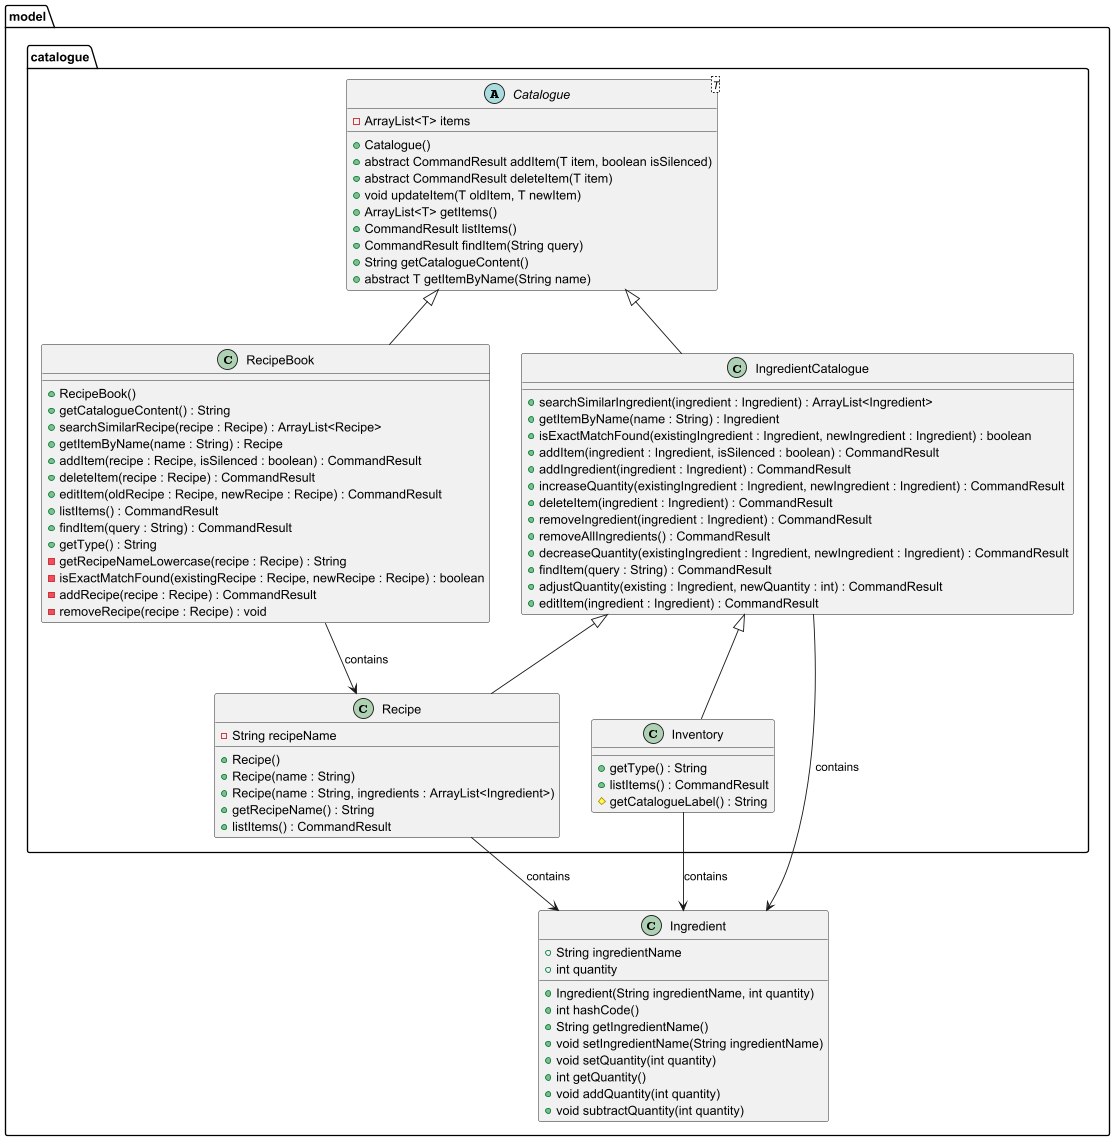
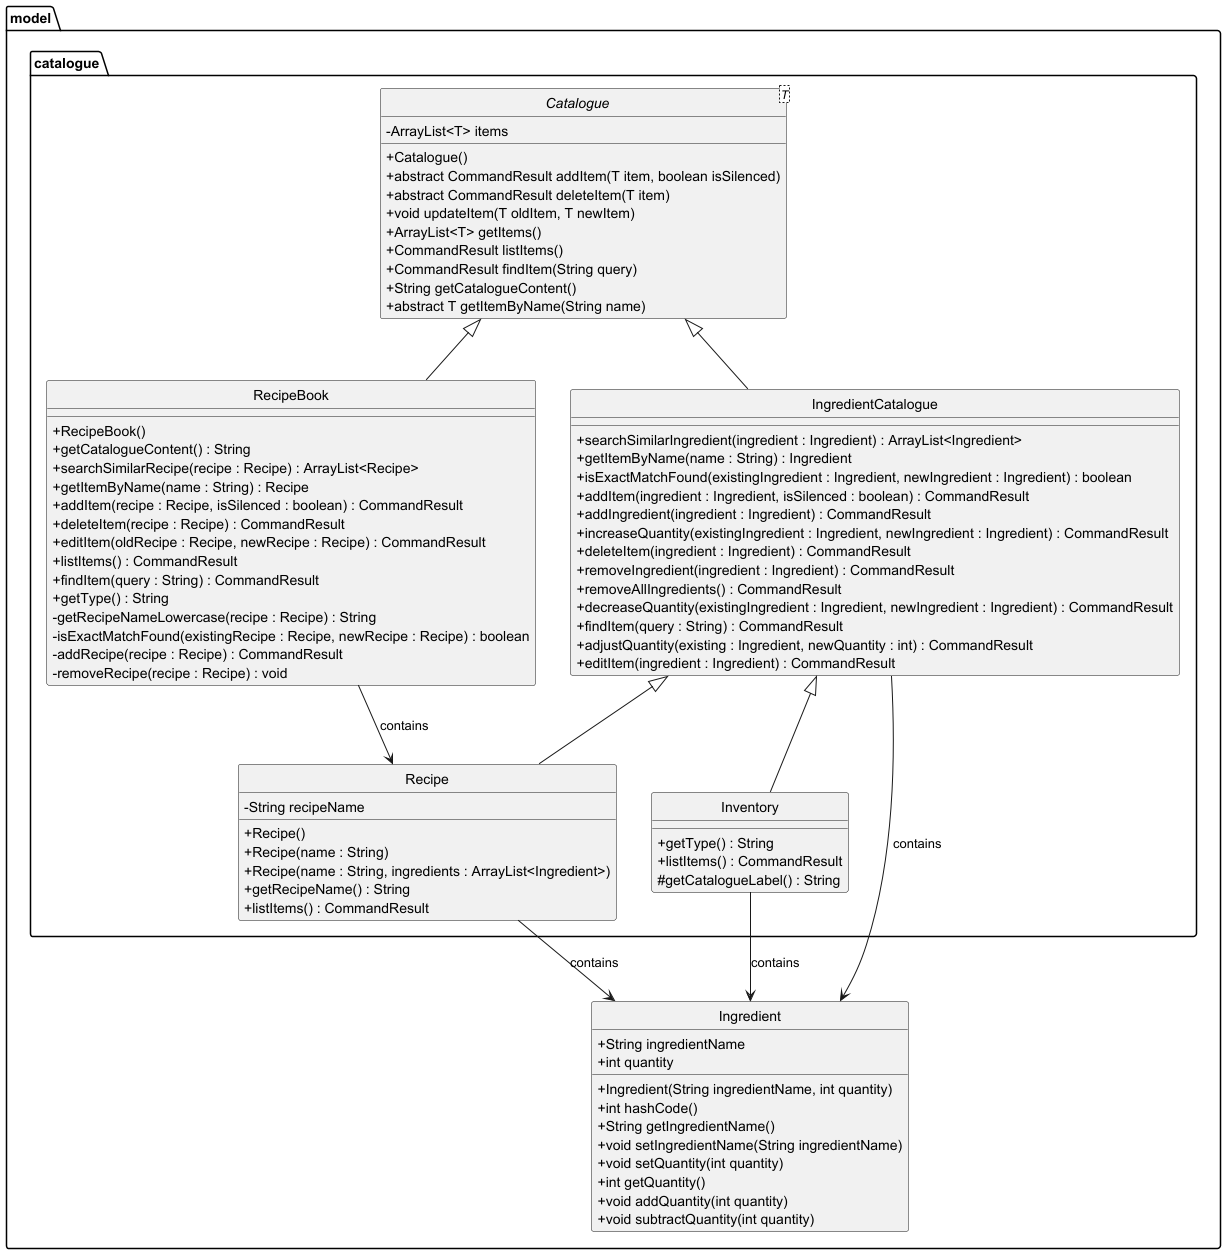
Fix UML diagrams

diff --git a/docs/DeveloperGuide.md b/docs/DeveloperGuide.md
@@ -1,5 +1,22 @@
 # Developer Guide
 
+## Table of Contents
+
+- [Acknowledgements](#acknowledgements)
+- [Design & implementation](#design--implementation)
+    - [Architecture](#architecture)
+    - [UI Component](#ui-component)
+    - [Commands Component](#commands-component)
+    - [Model Component](#model-component)
+    - [Storage Component](#storage-component)
+- [Product scope](#product-scope)
+    - [Target user profile](#target-user-profile)
+    - [Value proposition](#value-proposition)
+- [User Stories](#user-stories)
+- [Non-Functional Requirements](#non-functional-requirements)
+- [Glossary](#glossary)
+- [Instructions for manual testing](#instructions-for-manual-testing)
+    - [Tips for testers](#tips-for-testers)
 ## Acknowledgements
 
 KitchenCTRL uses the following tools for development:
@@ -21,13 +38,12 @@ The design and implementation of KitchenCTRL has been broken down into various s
 ### Architecture
 A high-level overview of the system is shown in the Architecture Diagram below.
 
-This architecture consists of:
+The complete architecture consists of:
 1. `Ui`, `Main`, `Parser`, `InputParser` and `Command` classes: 
     These classes manage user interaction, parsing input commands, and executing actions.
 2. `Ingredient`, `Inventory`, `Recipe` and `RecipeBook` classes: 
     Model objects and collections used to manage the application data.
-3. `Storage` class: Stores data between sessions.
-4. `Exceptions`: Handle error cases 
+3. `CatalogueContentManager` class: Stores data between sessions.
 
 ### UI Component
 ![UI UML diagram](diagrams/ui.png)
@@ -86,12 +102,11 @@ It integrates closely with other components such as:
 
 It allows the user to interact with the system in an intuitive way, providing clear instructions and feedback at every step.
 
-
-
 ### Commands Component
 ![Logic UML diagram](diagrams/logic.png)
 
-The commands package is responsible for encapsulating user actions and system operations as individual command classes. Each command represents a specific operation that the application can perform, such as modifying data, navigating between screens, or executing specific tasks.
+The commands package is responsible for encapsulating user actions and system operations as individual command classes. 
+Each command represents a specific operation that the application can perform, such as modifying data, navigating between screens, or executing specific tasks.
 
 All commands in this package inherit from a common parent class, typically named Command. This design ensures consistency and reusability across the application by enforcing a standard structure for all commands.
 
@@ -128,17 +143,76 @@ It does not depend on any of the other three components (Logic, UI, or Storage),
 
 > ℹ **Note:** Recipes and inventory entries are internally handled using dynamic lists within `Catalogue<T>`, avoiding tight coupling and enabling code reuse across domain types.
 
+#### **Inventory Class**
 
-#### RecipeBook Design
-The `RecipeBook` class inherits from `Catalogue<Recipe>` and manages a list of `Recipe` objects. It provides CRUD functionality and uses `CommandResult` to return operation outcomes.
+The `Inventory` class is a subclass of the generic `Catalogue<Ingredient>` class. It is used to store all ingredients currently available to the user.
 
+The following are its attributes:
+- `items`  
+  **type:** `ArrayList<Ingredient>`  
+  Stores all ingredients the user currently has.
+
+- `catalogueName`  
+  **type:** `String`  
+  A fixed label used for saving and displaying (e.g., "Inventory").
+
+Key methods implemented in this class include:
+- `addItem(Ingredient ingredient)` – Adds an ingredient to the inventory or updates quantity if it already exists.
+- `deleteItem(String name, int quantity)` – Removes a quantity of an ingredient.
+- `editItem(String name, int newQuantity)` – Updates the amount of a specific ingredient.
+- `getItemByName(String name)` – Retrieves an ingredient by name.
+- `findItem(String keyword)` – Returns a list of ingredients that match a keyword.
+- `contains(String name)` – Returns true if the inventory contains the given ingredient.
+---
+#### **Recipe Class**
+
+The `Recipe` class is used to represent a single recipe. It contains the name of the recipe and its required ingredients (with their quantities). It inherits from `Catalogue<Ingredient>`.
+
+The following are its attributes:
+
+- `recipeName`  
+  **type:** `String`  
+  Stores the name of the recipe.
+
+- `items`  
+  **type:** `ArrayList<Ingredient>`  
+  Represents the list of ingredients needed for the recipe.
+
+Key methods implemented in this class include:
+- `getRecipeName()` – Returns the name of the recipe.
+- `addItem(Ingredient ingredient)` – Adds an ingredient to the recipe.
+- `deleteItem(String name, int quantity)` – Removes a specified quantity of an ingredient from the recipe.
+- `editItem(String name, int newQuantity)` – Updates the quantity of an ingredient.
+- `getItemByName(String name)` – Searches for an ingredient by name.
+- `findItem(String keyword)` – Returns all ingredients that match a search keyword.
+
+---
+#### **RecipeBook Class**
+
+The `RecipeBook` class is a subclass of the generic `Catalogue<Recipe>` class. It is used to store all user-created recipes and supports functionality for adding, deleting, editing, and searching through recipes.
 ![RecipeBook Class Diagram](diagrams/recipebook.png)
+
+The following are its key attributes:
+- `items`  
+  **type:** `ArrayList<Recipe>`  
+  Stores all `Recipe` objects created by the user.
+
+- `catalogueName`  
+  **type:** `String`  
+  A fixed label used for saving and displaying the catalogue (e.g., "RecipeBook").
+
+Key methods implemented in this class include:
+- `addItem(Recipe recipe)` – Adds a new recipe to the list.
+- `deleteItem(String name)` – Deletes a recipe based on name.
+- `getItemByName(String name)` – Retrieves a recipe by name (case-insensitive).
+- `editItem(String name, Recipe updatedRecipe)` – Replaces an existing recipe with a modified one.
+- `findItem(String keyword)` – Returns a filtered list of recipes whose names contain the given keyword.
 
 ---
 
 ### Storage Component
 
-#### CatalogueContentManager Design
+#### CatalogueContentManager CLass
 
 ##### Purpose
 
@@ -192,7 +266,24 @@ Each item in the inventory is represented as `name (quantity)`
 
 Each recipe ends with a **blank line**.
 
+### Program Run Sequence
 
+#### Command handling
+![AddCommand diagram](diagrams/sequencediagram(Add).png)
+User input is first captured by the `Ui.getUserCommand()` method, which is called from the `KitchenCTRL` class (not shown in the sequence diagram). The input string is then passed to the `Parser#parseCommand()` method to identify the command type and generate the appropriate `Command` object.
+Once a `Command` object is created, the system invokes the `execute()` method of that command. The result of the execution is encapsulated in a `CommandResult` object, which the UI uses to print the appropriate response back to the user.
+As shown in the sequence diagram, this process is demonstrated through three main scenarios:
+
+- Navigating to the inventory screen:
+The user types "inventory", which is parsed into a GoToCommand. It is executed by the system, and the UI displays "now in Inventory" to confirm the screen transition.
+
+- Adding an ingredient:
+The user enters "add egg 1", which the parser interprets as an AddCommand. During execution, the Command object interacts with the Model (in this case, Inventory) to add the ingredient "egg" with quantity 1. Once successful, a confirmation message "egg added" is returned and printed to the user.
+
+- Exiting the program:
+When the user types "bye", the parser generates a ByeCommand. This command calls CatalogueContentManager#saveAllCatalogues() internally, which saves the Inventory and RecipeBook to files using saveToFile(). After successful persistence, a "Goodbye" message is returned and shown to the user.
+Each command follows a similar structure of being parsed → executed → result returned → response displayed, which is consistent with the general command handling architecture in KitchenCTRL.
+This sequence diagram serves as a reference for typical command flow and will help illustrate command handling in the Architecture and Logic sections of the Developer Guide.
 
 ##### Integration
 

diff --git a/docs/team/chuanhuiw.md b/docs/team/chuanhuiw.md
@@ -21,17 +21,26 @@ Given below are my contributions to the project:
     * *Justification*: Prevents system crashes from malformed user input, improving overall application stability.
     * *Highlights*: Refactored `getRecipeNameLowercase()` to validate name integrity before comparison.
 
+* **Refactoring of `Parser`**:
+    * *What it does*: Refactored the `Parser` class to strictly enforce command syntax, ensuring that commands which are designed to be used without arguments (such as `list`, `back`, `help`, `bye`) now throw an error if extra input is provided.
+    * *Justification*: Prevents user confusion and potential bugs caused by invalid command formats like `list extra`, which previously would be accepted silently. Enforcing strict validation improves command clarity and predictability.
+    * *Highlights*:
+        - Switched from keyword-based parsing (`command`, `args`) to full command-line validation (`commandLine`) in the `parseWelcomeCommand` method.
+        - Applied the same validation logic to screen-specific methods such as `parseInventoryCommand`, `parseRecipeBookCommand`, and `parseRecipeCommand`.
+        - Used structured switch-cases and `yield` expressions to enforce correct usage with clear, actionable error messages for commands misused with extra input.
+        - Removed unused parsing methods like `prepareUpdate`, replacing them with context-aware `prepareEdit` that handles `edit` functionality with proper argument checking.
+
 * **Code Contributed**: [RepoSense link](https://nus-cs2113-ay2425s2.github.io/tp-dashboard/?search=[YourGitHubName]&sort=groupTitle&sortWithin=title&timeframe=commit&mergegroup=&groupSelect=groupByRepos&breakdown=true&checkedFileTypes=docs~functional-code~test-code~other&since=2025-02-21)
 
 * **Documentation**:
     * User Guide:
         * Added usage instructions for the `find` command in the Inventory, RecipeBook, and Recipe screens.
     * Developer Guide:
-        * Documented the design, implementation, and PlantUML object diagram for `RecipeBook`.
+        * Documented the design, implementation, Architecture diagram, and PlantUML object diagram for `RecipeBook`.
         * Documented new methods including `findItem`.
 
 * **Testing**:
-    * Added unit tests for `findItem()` in:
+    * Added unit tests in:
         - `RecipeBookTest`
         - `RecipeTest`
         - `InventoryTest`
@@ -39,7 +48,8 @@ Given below are my contributions to the project:
 
 * **Community**:
     * PRs reviewed (with suggestions and feedback):
-        * [\#50](https://github.com/AY2425S2-CS2113-T13-1/tp/pull/50), [\#35](https://github.com/AY2425S2-CS2113-T13-1/tp/pull/35)
+        * [\#50](https://github.com/AY2425S2-CS2113-T13-1/tp/pull/50)
+        * [\#35](https://github.com/AY2425S2-CS2113-T13-1/tp/pull/35)
         * [\#93](https://github.com/AY2425S2-CS2113-T13-1/tp/pull/93)
 
 * **Tools**:
